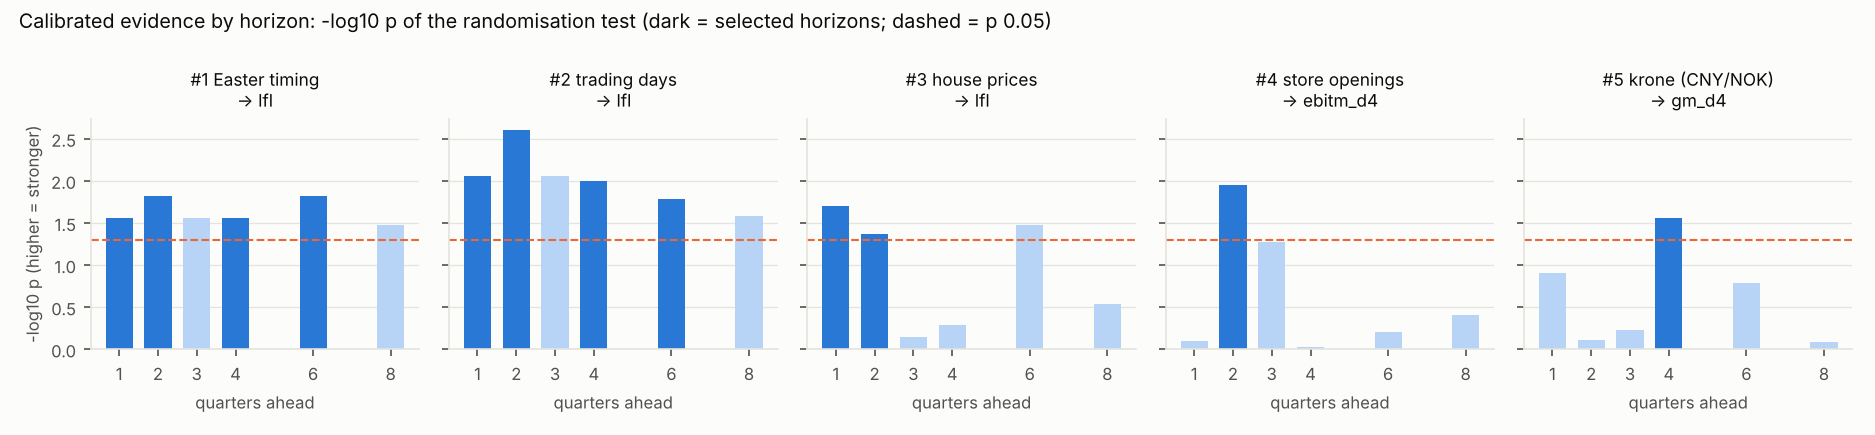
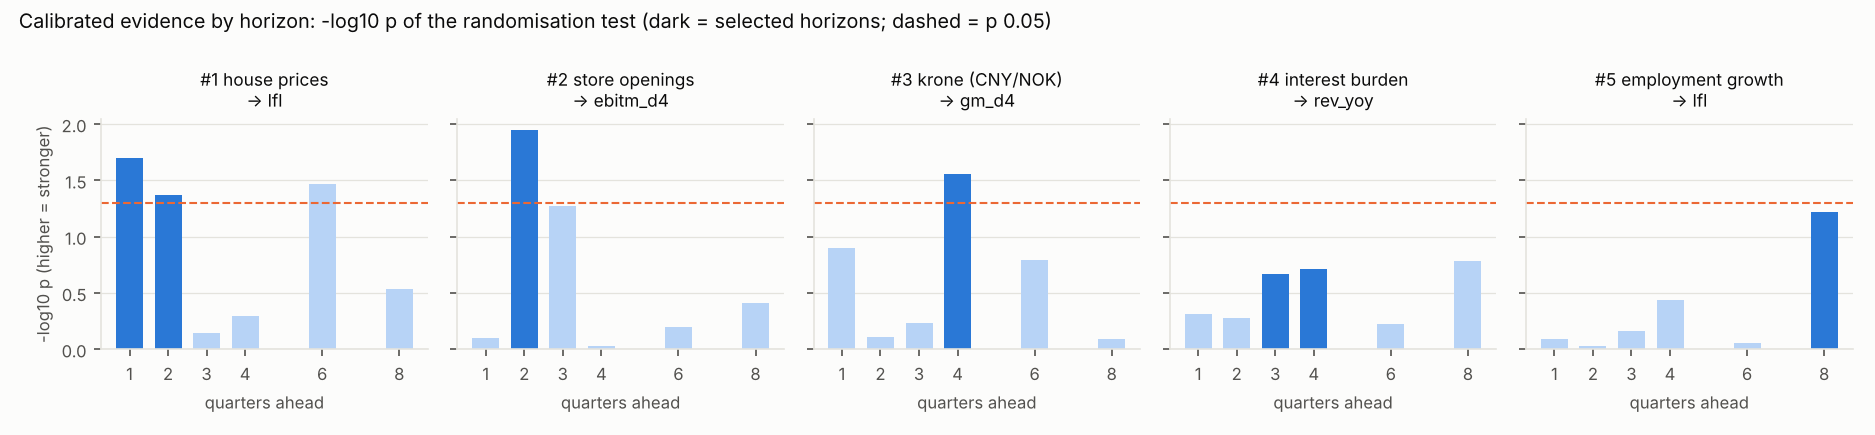
Replace calendar effects in the top 5 with two new long-horizon variables
The user considers Easter timing and trading days obvious; they stay in every
benchmark as controls. Round 4 searched new data families (inventory, sea
freight, housing activity, household finance, relative share price) and ran a
uniform robustness horse race; the least-weak additions are the household
interest burden (sales, 3-4 quarters) and employment growth (LFL, ~8 quarters),
both graded weak. README, picks, holdout results and verification log updated.

Claude-Session: https://claude.ai/code/session_01HQMCDPBt8Mcwhuih4hqYEy

diff --git a/research/europris_predictors/scripts/top5.py b/research/europris_predictors/scripts/top5.py
@@ -11,40 +11,55 @@ Grades
   MODERATE     consistent across two independent samples, but thin on Europris alone.
   FRAGILE      significant on Europris (calibrated p < 0.05 in both COVID specs)
                but driven by one episode or not confirmed out of sample.
+  WEAK         below the fragile bar (p < 0.05 in only one spec or 0.05-0.10 in
+               both) but consistently signed across independent checks; the best
+               of the non-calendar candidates tested in round 4 (new variables).
 """
 
+# Easter timing and shop trading days are not listed: they are obvious calendar
+# effects (established, see results/benchmark_components.csv and
+# calendar_joint.csv) and stay in every benchmark as controls.
+CALENDAR_CONTROLS = ["c_easter_share_d4", "c_tdays_d4"]
+
 PICKS = [
-    dict(rank=1, key="easter", short="Easter timing", kind="calendar", component="c_easter_share_d4",
-         label="Easter timing: share of the 14-day pre-Easter shopping window falling in the quarter (y/y change)",
-         targets=["lfl", "rev_yoy"], hs=[1, 2, 4, 6], horizon_class="short and long (known years ahead)",
-         sign="+", grade="ESTABLISHED",
-         mechanism="Easter is Europris's biggest seasonal event after Christmas; when the pre-Easter weeks move "
-                   "between Q1 and Q2, sales move with them (management quantifies -5 to +7 pp)."),
-    dict(rank=2, key="tdays", short="trading days", kind="calendar", component="c_tdays_d4",
-         label="Shop trading days in the quarter (Mon-Sat excl. public holidays), y/y difference",
-         targets=["lfl", "rev_yoy"], hs=[1, 2, 4, 6], horizon_class="short and long (known years ahead)",
-         sign="+", grade="ESTABLISHED",
-         mechanism="Stores are closed on Sundays and public holidays; one extra trading day adds roughly 2-3 pp to "
-                   "quarterly like-for-like growth (overlapping with the Easter effect)."),
-    dict(rank=3, key="house_prices", short="house prices", kind="macro", feature="house_prices__g4",
+    dict(rank=1, key="house_prices", short="house prices", kind="macro", feature="house_prices__g4",
          label="House prices, y/y % (SSB house price index)",
          targets=["lfl", "rev_yoy"], hs=[1, 2], horizon_class="short (next 1-2 quarters)", sign="+", grade="MODERATE",
          mechanism="Housing wealth and home-related purchases; positive slope in every sub-period of 25 years of "
                    "category sales (NACE 47.19), including the pre-2015 period independent of the Europris sample."),
-    dict(rank=4, key="store_pace", short="store openings", kind="macro", feature="eu_store_growth__g4",
+    dict(rank=2, key="store_pace", short="store openings", kind="macro", feature="eu_store_growth__g4",
          label="Europris chain store count, y/y growth (pre-approved store pipeline)",
          targets=["ebitm_d4"], hs=[2], horizon_class="short (2 quarters)", sign="-", grade="FRAGILE",
          mechanism="Faster store expansion is followed by a lower EBIT margin two quarters later; the significance "
                    "leans on 2019 (central-warehouse cost overruns coincided)."),
-    dict(rank=5, key="krone", short="krone (CNY/NOK)", kind="macro", feature="cnynok__g4",
+    dict(rank=3, key="krone", short="krone (CNY/NOK)", kind="macro", feature="cnynok__g4",
          label="Krone vs Chinese yuan (CNY/NOK y/y %; USD/NOK similar)",
          targets=["gm_d4"], hs=[4], horizon_class="long (4 quarters)", sign="-", grade="FRAGILE",
          mechanism="Purchases are paid in USD, hedged up to 6 months, and inventory turns in ~5 months, so a weaker "
                    "krone reaches cost of goods ~4 quarters later. Rests on the 2015-16 krone shock; not confirmed "
-                   "at Clas Ohlson or Kid; negative in the 2024-26 holdout when the stronger krone was passed on."),
+                   "at Clas Ohlson or Kid; mixed in the 2024-26 holdout when the stronger krone was passed on."),
+    dict(rank=4, key="int_burden", short="interest burden", kind="macro", feature="new_hhf_int_burden__d4",
+         label="Household interest burden (interest expenses / disposable income excl. dividends, SSB 11020), y/y change in pp",
+         targets=["rev_yoy"], hs=[3, 4], horizon_class="long (3-4 quarters)", sign="-", grade="WEAK",
+         mechanism="Norwegian mortgages are mostly floating-rate, so rate changes hit household cash flow with a lag; "
+                   "a rising burden is followed by weaker sales 3-4 quarters later. Same sign at h=1-5, in the 2008-09 "
+                   "cycle, in the 25-year category data and in 11 of 12 holdout cells, but significant only when "
+                   "COVID-era quarters are kept (p 0.03 vs 0.19), not visible in like-for-like, and largely the same "
+                   "information as the policy-rate change."),
+    dict(rank=5, key="employment", short="employment growth", kind="macro", feature="employment__g4",
+         label="Employed persons, register (SA), y/y %",
+         targets=["lfl"], hs=[8], horizon_class="long (~8 quarters)", sign="+", grade="WEAK",
+         mechanism="Job growth lifts household income and spending with a long lag; the best-scoring candidate on a "
+                   "uniform robustness battery (10/15), robust to dropping 2016, positive at neighbouring horizons, "
+                   "but p 0.06-0.08, rests on 2016-19 targets, opposite sign in pre-2015 category data, and absorbed "
+                   "by the krone in the COVID-excluded spec."),
 ]
 
 RUNNERS_UP = [
+    dict(rank=8, key="spend_abroad", short="spending abroad", kind="macro", feature="hh_cons_abroad__g4",
+         label="Household purchases abroad (QNA), y/y", targets=["lfl"], hs=[4], horizon_class="long (4 quarters)",
+         sign="-", grade="REJECTED", mechanism="Formally p<0.05 in both specs but spurious: ~87% holiday travel, "
+         "isolated h=4 spike, opposite sign in 25-year category data, holdout relation reversed."),
     dict(rank=6, key="cci_country_next", short="consumer expectations", kind="macro",
          feature="cci_country_next__lvl", label="Finans Norge: households' view of Norway's economy next year",
          targets=["gm_d4"], hs=[2, 4], horizon_class="medium (2-4 quarters)", sign="+", grade="FRAGILE",

diff --git a/research/europris_predictors/scripts/evaluate_top.py b/research/europris_predictors/scripts/evaluate_top.py
@@ -24,6 +24,7 @@ import pandas as pd  # noqa: E402
 sys.path.insert(0, str(Path(__file__).resolve().parent))
 import inference  # noqa: E402
 import screen_predictors as sp  # noqa: E402
+import test_new  # noqa: E402
 from top5 import PICKS, RUNNERS_UP  # noqa: E402
 
 ROOT = Path(__file__).resolve().parents[1]
@@ -63,9 +64,14 @@ def forecasts(frames, X, p, y, h):
 
 def main():
     panel, pxp, X = sp.prepare()
+    # new-data candidates (round 4) are built exactly as in test_new.py
+    specs, long, cat = test_new.load_new(str(ROOT / "data" / "new" / "*_spec.csv"))
+    Xn, _ = test_new.build_features(specs, long, cat, X.index)
+    X = X.join(Xn, how="left")
     sp._init(X.index)
     frames, _ = sp.build_frames(panel, pxp)
-    ev = pd.read_csv(RES / "evidence_all.csv")
+    ev = pd.concat([pd.read_csv(RES / "evidence_all.csv"), pd.read_csv(RES / "new_candidates_screen.csv")],
+                   ignore_index=True)
     bc = pd.read_csv(RES / "benchmark_components.csv")
     cards, hold, preds = [], [], {}
     for p in PICKS + RUNNERS_UP:
@@ -96,7 +102,7 @@ def main():
                     t_ol, p_ol, _, _ = sp.boot_stats(f, cols + ["l1", "l2"], X[p["feature"]], sim)
                     cards.append({"rank": p["rank"], "key": p["key"], "target": y, "h": h, "selected_h": h in p["hs"],
                                   "t_is": r.t_is, "p_is": r.p_is, "n_is": r.n_is, "t_isc": r.t_isc, "p_isc": r.p_isc,
-                                  "q_bh": r.q_bh, "t_ownlags": t_ol, "p_ownlags": p_ol,
+                                  "q_bh": r.get("q_bh"), "t_ownlags": t_ol, "p_ownlags": p_ol,
                                   "t_pxpre": r.get("t_pxpre"), "p_pxpre": r.get("p_pxpre"),
                                   "beta_std": r.beta_std_c, "t_no16": r.t_no16, "tc_no16": r.tc_no16,
                                   "t_px": r.get("t_px"), "p_px": r.get("p_px"), "t_pxl": r.get("t_pxl"), "p_pxl": r.get("p_pxl"),

diff --git a/research/europris_predictors/README.md b/research/europris_predictors/README.md
@@ -2,29 +2,37 @@
 
 **Question.** Which variables help predict Europris ASA's Norwegian sales, like-for-like (LFL) growth, gross margin and EBIT margin? We need at least two that work 1–4 quarters ahead and at least two that work 4 or more quarters ahead.
 
-**Data.** Europris's own quarterly reports, 2014Q1–2026Q2 (50 quarters, independently verified), and 92 candidate features built from ~440 Norwegian macro, market and survey series.
+**Data.** Europris's own quarterly reports, 2014Q1–2026Q2 (50 quarters, independently verified), and about 110 candidate features. Of these, 92 are built from ~440 Norwegian macro, market and survey series; a later round added 18 from new sources: Europris inventory, sea-freight prices, housing activity, household interest burden and relative share price.
 
-**Method.** Each candidate gets out-of-sample tests with calibrated small-sample inference, a 25-year category proxy, an untouched holdout (2024Q3–2026Q2), and three rounds of independent replication and adversarial review.
+**Method.** Each candidate gets out-of-sample tests with calibrated small-sample inference, a 25-year category proxy, an untouched holdout (2024Q3–2026Q2), and four rounds of independent replication and adversarial review.
 
 ## The answer
 
 | # | Variable | What it predicts | Horizon | Effect size | Evidence grade |
 |---|---|---|---|---|---|
-| 1 | **Easter timing**: share of the 14-day pre-Easter shopping window falling in the quarter, y/y change | Sales and LFL growth | **Any**; known years ahead, so short- and long-term | A full shift of the Easter window into or out of a quarter moves LFL by ~8–11 pp; typical shifts move it ±3–7 pp | **Established** |
-| 2 | **Shop trading days** (Mon–Sat excluding public holidays), y/y difference | Sales and LFL growth | **Any**; known years ahead | ~2–3 pp of LFL per extra trading day | **Established** |
-| 3 | **House prices**, y/y % (SSB) | Sales and LFL growth | **1–2 quarters** | ~0.3 pp LFL (0.4–0.5 pp sales) per 1 pp of house-price growth | **Moderate** |
-| 4 | **Store-opening pace**: Europris chain store count, y/y growth | EBIT-margin change (negative) | **2 quarters** | ~−1.1 to −1.5 pp EBIT margin per 1 pp faster store growth | **Fragile** |
-| 5 | **Krone vs Chinese yuan / US dollar**: CNY/NOK y/y %, USD/NOK similar | Gross-margin change (negative) | **4 quarters** | A 10% weaker krone means ~−0.8 to −1.3 pp gross margin a year later | **Fragile** |
+Calendar effects (Easter timing and shop trading days) are left out of this list because they are obvious. They are still the strongest predictors of sales and LFL, and they are controlled for in every model below (see [Calendar controls](#calendar-controls-easter-timing-and-trading-days-established)).
 
-Short-term (1–4 quarters): #1, #2, #3, #4. Long-term (4+ quarters): #1 and #2, which are calendar facts known years ahead and validated 4–8 quarters out, and #5, the only economic variable with a significant ≥4-quarter signal.
+| # | Variable | What it predicts | Horizon | Effect size | Evidence grade |
+|---|---|---|---|---|---|
+| 1 | **House prices**, y/y % (SSB) | Sales and LFL growth | **1–2 quarters** | ~0.3 pp LFL (0.4–0.5 pp sales) per 1 pp of house-price growth | **Moderate** |
+| 2 | **Store-opening pace**: Europris chain store count, y/y growth | EBIT-margin change (negative) | **2 quarters** | ~−1.1 to −1.5 pp EBIT margin per 1 pp faster store growth | **Fragile** |
+| 3 | **Krone vs Chinese yuan / US dollar**: CNY/NOK y/y %, USD/NOK similar | Gross-margin change (negative) | **4 quarters** | A 10% weaker krone means ~−0.8 to −1.3 pp gross margin a year later | **Fragile** |
+| 4 | **Household interest burden**: interest expenses / disposable income excl. dividends (SSB 11020), y/y change | Sales growth (negative) | **3–4 quarters** | +1 pp in the burden means ~−1.3 to −2.6 pp sales growth 3–4 quarters later | **Weak** |
+| 5 | **Employment growth**: register-based employed persons, y/y % (SSB) | LFL growth (positive) | **~8 quarters** | +1 pp employment growth means ~+1.3 to +1.8 pp LFL about two years later | **Weak** |
 
-**The single most important finding is a negative one.** Once the calendar and Europris's own recent figures are in the model, no macro or market variable is statistically established after correcting for the number of candidates tried (≈1,500 tests). Across all of them, the share of p ≤ 0.05 is 3–6%, exactly what chance produces. Only the house-price signal holds up in two independent samples. Long-horizon economic predictability of Europris's Norwegian numbers is weak. The krone (#5) is the best long-horizon economic candidate, and it rests on one episode.
+Short-term (1–4 quarters): #1 and #2. Long-term (4+ quarters): #3, #4 and #5.
+
+**The single most important finding is a negative one.** Once the calendar and Europris's own recent figures are in the model, no macro or market variable is statistically established after correcting for the number of candidates tried (≈1,700 tests). Across all of them, the share of p ≤ 0.05 is 3–7%, which is what chance produces.
+
+- **House prices** are the only signal that holds up in two independent samples.
+- **Long horizons:** economic predictability of Europris's Norwegian numbers is weak. #3–#5 are the best long-horizon candidates, and each has a specific weakness (below).
 
 ### Grades
 
 - **Established:** passes exact randomisation tests at every horizon and is positive in the holdout.
 - **Moderate:** consistent across two independent samples, but thin on Europris data alone.
 - **Fragile:** significant on Europris in both COVID treatments (calibrated p < 0.05), but driven by one episode or not confirmed out of sample. Use it as a risk flag, not a forecasting rule.
+- **Weak:** below the fragile bar (significant in only one COVID treatment, or p 0.05–0.10 in both), but signed consistently across independent checks. These are the best of the non-calendar candidates in the fourth round. Use them only as a directional tilt.
 
 ![Holdout forecasts](results/figures/holdout_forecasts.png)
 
@@ -32,7 +40,7 @@ Short-term (1–4 quarters): #1, #2, #3, #4. Long-term (4+ quarters): #1 and #2,
 
 All p-values come from calibrated randomisation tests (see Method). R² values compare out-of-sample forecasts against the benchmark without the variable. "Primary" means COVID-distorted quarters are excluded; "control" means they are kept with COVID controls. Holdout = 2024Q3–2026Q2, 8 quarters, never used for selection.
 
-### 1–2. Calendar: Easter timing and trading days (established)
+### Calendar controls: Easter timing and trading days (established)
 
 **Joint test of both calendar terms.** Exact placebo-calendar test (each quarter's calendar replaced by the same quarter in 266 other years). For LFL, p ranges from 0.004 (the test's floor) to 0.034 at every horizon from 1 to 8 quarters, in both COVID treatments. For sales growth, p ranges from 0.004 to 0.04, except h=4–6 in the primary spec (p 0.07–0.10). Source: `results/calendar_joint.csv`.
 
@@ -44,7 +52,7 @@ All p-values come from calibrated randomisation tests (see Method). R² values c
 
 Neither calendar term predicts gross margin or EBIT margin.
 
-### 3. House prices → sales next 1–2 quarters (moderate)
+### 1. House prices → sales next 1–2 quarters (moderate)
 
 **Europris, primary spec.** LFL h=1: p 0.020 (t 2.0). Sales h=1: p 0.030. LFL h=2: p 0.043. The control spec has the same sign but is weaker (p 0.11–0.32).
 
@@ -62,7 +70,7 @@ Neither calendar term predicts gross margin or EBIT margin.
 
 ![House prices](results/figures/house_prices_next_quarter.png)
 
-### 4. Store-opening pace → EBIT margin 2 quarters later (fragile)
+### 2. Store-opening pace → EBIT margin 2 quarters later (fragile)
 
 **Statistics.** p 0.011 (primary, n=15) and 0.028 (control). Robust to extra own lags (p 0.007) and to dropping 2016. Holdout R² is +0.67 / +0.32.
 
@@ -71,7 +79,7 @@ Neither calendar term predicts gross margin or EBIT margin.
 - The effect shows up in gross margin, not in the opex ratio, so the start-up-cost story is unproven.
 - The store pipeline is pre-approved by the board, so this is known in advance.
 
-### 5. Krone (CNY/NOK; USD/NOK similar) → gross margin 4 quarters later (fragile)
+### 3. Krone (CNY/NOK; USD/NOK similar) → gross margin 4 quarters later (fragile)
 
 **Mechanism.** USD is ~30% of purchases. Purchase orders are hedged up to 6 months and inventory turns in ~5 months, so a weaker krone should reach cost of goods 3–4 quarters later. Management says this repeatedly.
 
@@ -92,11 +100,59 @@ Treat it as a risk flag after large krone moves (roughly ±10% y/y), not as a ro
 
 ![FX vs gross margin](results/figures/fx_vs_gross_margin.png)
 
+### 4. Household interest burden → sales growth 3–4 quarters later (weak; new)
+
+**What it is.** Households' interest expenses as a share of disposable income excluding dividends (SSB sector accounts, table 11020), y/y change in pp. Its level tracks Norges Bank's published burden: 12.5% in 2008Q4, 5.5% in 2021, 11.7% in 2024Q4. Most Norwegian mortgages are floating-rate, so rate changes reach household cash flow within a few quarters.
+
+**Statistics.**
+- COVID-control spec: p 0.012 / 0.036 / 0.030 at h=2/3/4.
+- COVID-excluded spec: p 0.52 / 0.21 / 0.19.
+- The sign is negative at every horizon from 1 to 5.
+- It is the only new candidate that survives the existing picks in both specs (p 0.058 / 0.066). The loan-rate version (`new_hhf_loan_rate__d4`) behaves similarly.
+
+**Independent checks.**
+- The sign is negative in the 25-year category data (pre-2015 t −1.5, not significant), in the 2008–09 cycle (t −3.3 to −3.8 at h=4–6, p 0.16–0.24), and in 11 of 12 holdout cells.
+- Holdout R² is mixed: +0.28 (primary) and −0.45 (control) at h=4; −0.22 / +0.21 at h=3.
+
+**Why only weak.**
+- Significance needs the 2020Q1–2023Q2 targets. Dropping them gives p 0.25–0.52.
+- It does not show up in like-for-like growth, only in total sales.
+- It is largely the same information as the policy-rate change, which was tested and rejected on its own.
+- Adding extra own lags removes it (p ≈ 0.18).
+
+**Current reading.** The burden is falling (−0.7 pp y/y in 2026Q2, level 11.0%), a mild sales tailwind into 2027H1. Norges Bank's May 2026 hike will turn this around with a lag.
+
+### 5. Employment growth → like-for-like growth ~2 years later (weak; new)
+
+**What it is.** Register-based employed persons (SSB, seasonally adjusted, final figures with a 54-day publication lag), y/y %.
+
+**Statistics.**
+- LFL at h=8: p 0.060 (primary) and 0.078 (control).
+- Robust to dropping 2016 (p 0.022 / 0.098) and to dropping 2022–23 (control 0.081).
+- Positive at the neighbouring horizons h=7 and h=9 in both specs.
+- Positive slope in both 2015–19 and 2023–24.
+- It ranked first of six candidates on a uniform 15-check robustness battery (10/15).
+
+**Holdout.** +0.10 (control spec, 8 quarters); the primary spec has only 5 holdout quarters, too few to score.
+
+**Why only weak.**
+- p is above 0.05 in both specs.
+- The COVID-excluded sample is 15 targets from 2016–19, and nothing shows up at shorter horizons.
+- The pre-2015 category data have the opposite sign (t −2.4 at h=8).
+- In the COVID-excluded spec the krone pick absorbs it (p 0.24).
+
+**Current reading.** +0.6% y/y in 2026Q2, close to its recent average, so roughly neutral for 2028.
+
 ### Runners-up (tested, not good enough)
 
 | Variable | Result | Why it was not included |
 |---|---|---|
-| Finans Norge consumer sub-index "Norway's economy next year" → gross margin, 2–4 quarters | Control spec p 0.002–0.016; primary spec p 0.11–0.28; holdout +0.29/+0.03 (h2), +0.53/−0.12 (h4) | Only significant when COVID quarters are kept; moves with the krone (r = −0.73); sibling confidence indices show nothing |
+| Finans Norge consumer sub-index "Norway's economy next year" → gross margin, 2–4 quarters | Control spec p 0.002–0.016; primary spec p 0.11–0.28; holdout +0.29/+0.03 (h2), +0.53/−0.12 (h4) | Only significant when COVID quarters are kept; moves with the krone (r = −0.73); sibling confidence indices show nothing; absorbed by store pace and FX |
+| Household purchases abroad (cross-border shopping and travel) → LFL, 4 quarters | p 0.027 / 0.014, formally passes the fragile bar | **Spurious:** ~87% holiday travel, not cross-border shopping; isolated spike at h=4; the 25-year category data have the opposite sign at every horizon; the holdout relation reversed (2024–25 income recovery lifted both travel and Europris) |
+| Europris share price relative to OSEBX → EBIT margin, 2 quarters | p 0.062 / 0.084 | The store-pace pick fully absorbs it; the 2023–24 slope has the wrong sign |
+| Europris inventory (growth, excess vs sales, days of inventory) → margins, 1–4 quarters | Right sign for next-quarter gross margin but p 0.07–0.08 (primary only); an "excess inventory → sales, 3 quarters" hit (p 0.0003) | No pre-registered sales sign, and holdout R² −1.6 / −1.5 |
+| Sea-freight prices (INSEE index; no Asia–Europe spot index was reachable) and Europris's announced freight-contract regime → gross margin | Nothing at 4+ quarters; contract regime p 0.015 at h=2 on 4 in-sample quarters | Europris's 1–2 year contracts decouple its cost from spot rates; holdout −6.6 / −0.4 |
+| Housing activity (homes sold, days on market, completions, under construction) → sales/LFL | Chance level (5.4% of tests at p ≤ 0.05) | Only COVID-era significance; days on market mirrors house prices (r ≈ −0.85) |
 | Household saving ratio change → LFL, 6 quarters | p 0.10 / 0.046; full-proxy p 0.04; holdout +0.51/−0.58 | Spike at one horizon; dividend-tax artefacts in the SSB series; proxy support only from 2001–07 |
 | Norges Bank Regional Network, retail output and expectations → next-quarter sales | Category proxy p ≤ 0.003 | Nothing at Europris level (p > 0.4); holdout ≈ 0 |
 | Unemployment change → gross margin, 4–6 quarters | p 0.06 / 0.01 | The same 2015–16 oil and krone episode as #5 (r ≈ 0.9); disappears when FX is controlled; holdout mixed |
@@ -176,8 +232,14 @@ All pre-registered hypotheses were tested (see `results/hypotheses_primary.csv`)
   - two hits were artefacts (import-volume glitch, dividend-tax timing);
   - the benchmark was missing the calendar, which by itself explains far more than any macro variable.
 - **v3** fixed all of this. The list above is the v3 result.
+- **Round 4 (new variables)** looked for non-calendar replacements for the calendar effects.
+  - Four new data families were collected, each with priors written before testing: Europris inventory, sea freight, housing activity, and household finance plus relative share price.
+  - Together with the earlier runners-up, they went through a uniform 15-check robustness horse race and a further adversarial round.
+  - The interest burden and employment growth were the least weak and are listed as #4–#5 with a "weak" grade. Nothing new reached "fragile" or better.
 
 ## Using this to forecast
+
+Start from the calendar (Easter, trading days) and Europris's own recent figures, then add the variables below.
 
 1. **Start every sales and LFL forecast from the calendar.** Easter placement and trading days are known years ahead and explain the largest predictable swings.
    - Example: Q1 2026 LFL was +14.7%, of which management attributes ~+7 pp to the earlier Easter; Q2 2026 then lost ~5.5 pp.
@@ -185,6 +247,9 @@ All pre-registered hypotheses were tested (see `results/hypotheses_primary.csv`)
 3. **Treat margins as hard to forecast from macro data.**
    - Use the krone as a risk flag: CNY/NOK was −3% to −8% y/y in 2025Q3–2026Q2. A stronger krone *should* help gross margin about a year later, but in 2025–26 that gain was competed away.
    - Use store-opening pace as a mild EBIT-margin headwind, about two quarters out.
+4. **For the year ahead, use the two weak long-horizon tilts with heavy shrinkage.**
+   - **Interest burden:** falling since 2025 (−0.7 pp y/y in 2026Q2), which points to slightly stronger sales growth 3–4 quarters out. The May 2026 rate hike will reverse that with a lag.
+   - **Employment growth:** +0.6% y/y, roughly neutral for LFL two years out.
 
 ## Limitations
 
@@ -204,13 +269,15 @@ All pre-registered hypotheses were tested (see `results/hypotheses_primary.csv`)
 
 ```
 data/      europris_part{1,2}.csv (+ notes/*_sources.md)  verified company figures, per-quarter sources
+           new/  round-4 candidate series, catalogs and pre-registered specs (notes/new_*.md)
+           crosscheck/  Clas Ohlson and Kid ASA quarterly gross margins
            europris_norway_quarterly.csv, targets_quarterly.csv
            macro_ssb_long.csv, macro_markets_long.csv (+ catalog_*.csv)  raw series with release lags
            events_quarterly.csv  Easter, COVID intensity, IFRS 16, ÖoB, event log
            predictors_quarterly.csv, predictor_catalog.csv, proxy_quarterly.csv
 notes/     drivers_and_hypotheses.md  management statements, hedging policy, priors
 scripts/   candidates.py, hypotheses.py, fcast.py, inference.py
-results/   screen_all.csv, evidence_all.csv, family_calibration.csv, exploratory_shortlist.csv,
+results/   screen_all.csv, evidence_all.csv, family_calibration.csv, exploratory_shortlist.csv, new_candidates_screen.csv,
            benchmark_components.csv, calendar_joint.csv, hypotheses_*.csv,
            top5_evidence_cards.csv, top5_holdout.csv, figures/
 ```
@@ -223,6 +290,7 @@ python3 scripts/screen_predictors.py
 python3 scripts/rank_evidence.py
 python3 scripts/benchmark_components.py
 python3 scripts/test_hypotheses.py
+python3 scripts/test_new.py          # round-4 candidates from data/new/
 python3 scripts/evaluate_top.py
 ```
 

diff --git a/research/europris_predictors/notes/verification_summary.md b/research/europris_predictors/notes/verification_summary.md
@@ -69,6 +69,34 @@ Every finalist replicated exactly from the raw files: predictor rebuilds matched
 | Finans Norge "Norway's economy next year" → gross margin | Fragile | Needs COVID rows; correlated with the krone |
 | House prices → sales/LFL, h=1 | Moderate | Category slope stable in every sub-period; Europris evidence only in the primary spec; sensitive to extra own lags |
 
+## Round 3: new non-calendar variables
+
+The user asked for two new variables instead of the calendar effects.
+
+**Data collection.** Four agents collected new data families, wrote down their transforms and expected signs before testing, and ran `scripts/test_new.py` once each. All four families were null at the evidence bar:
+
+| Family | Result |
+|---|---|
+| Europris inventory | Right sign for next-quarter gross margin, but p 0.07–0.08 |
+| Sea-freight prices / contract regime | No real Asia–Europe spot index was reachable; nothing at 4+ quarters |
+| Housing activity | Chance level |
+| Household interest burden, loan rate, relative share price | Significant only in the COVID-control spec |
+
+Combined: the share of p ≤ 0.05 was 0–7% per target. The one Benjamini–Hochberg survivor, excess inventory → sales at h=3, failed the holdout (R² −1.6).
+
+**Attack and horse race.** One agent attacked spending abroad and interest burden; another ran a uniform 15-check battery across six candidates. Every stored number replicated exactly.
+
+| Candidate | Verdict |
+|---|---|
+| Spending abroad | Spurious (travel, not cross-border shopping; wrong sign in the 25-year proxy; holdout reversed) |
+| Interest burden → sales h=3–4 | Weak (COVID-control spec only; consistent sign everywhere; survives the existing picks) |
+| Employment → LFL h=8 | Weak (p 0.06–0.08; best battery score) |
+| Consumer expectations → gross margin | Absorbed by existing picks |
+| Relative share price → EBIT | Absorbed by existing picks |
+| Saving ratio → LFL | Fails most checks |
+
+**Choice.** Interest burden and employment growth were taken as #4–#5, graded "weak".
+
 ## Final state (v3)
 
 | Check | Result |
